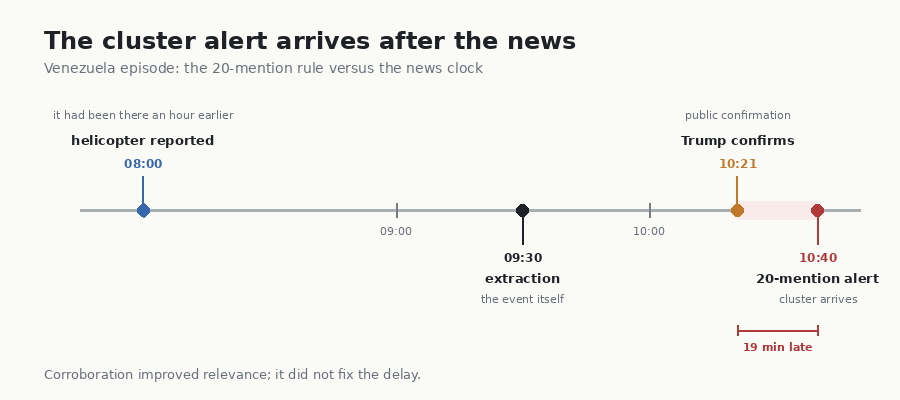
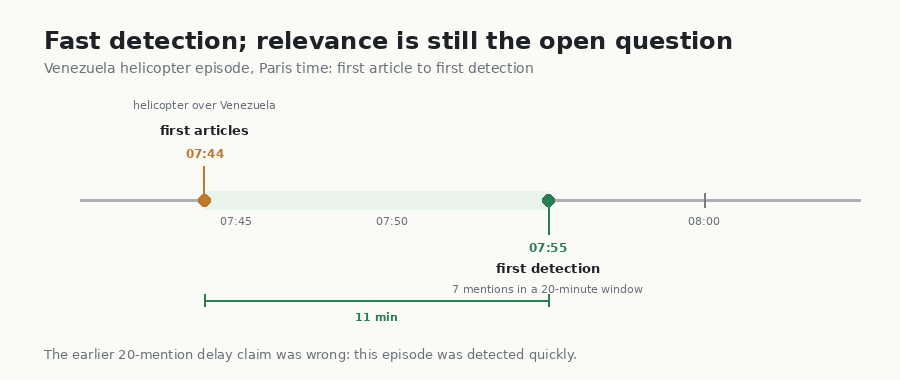
Correct Venezuela timeline in Bloomberg crypto theory
Articles appeared at 07:44 Paris and the first cluster detection was at 07:55, from 7 mentions in a 20-minute window. The earlier 20-mention delay account was wrong; detection was fast, so relevance and after-cost return remain the open questions.

diff --git a/scripts/make_illustrations.py b/scripts/make_illustrations.py
@@ -402,39 +402,35 @@ def blend(first, second, amount: float):
 
 
 def render_cluster_latency() -> Path:
-    width, height = 900, 400
+    width, height = 900, 380
     image, draw = canvas(
         width,
         height,
-        "The cluster alert arrives after the news",
-        "Venezuela episode: the 20-mention rule versus the news clock",
+        "Fast detection; relevance is still the open question",
+        "Venezuela helicopter episode, Paris time: first article to first detection",
     )
-    left, right, line_y = 80, 860, 210
-    day_start, day_end = 7 * 60 + 45, 10 * 60 + 50
+    left, right, line_y = 80, 860, 200
+    day_start, day_end = 7 * 60 + 40, 8 * 60 + 5
 
     def tx(minute: int) -> float:
         return left + (minute - day_start) / (day_end - day_start) * (right - left)
 
     draw.line([(left, line_y), (right, line_y)], fill=(170, 175, 180), width=3)
-    for minute in (8 * 60, 9 * 60, 10 * 60):
+    for minute in (7 * 60 + 45, 7 * 60 + 50, 8 * 60):
         x = tx(minute)
         draw.line([(x, line_y - 7), (x, line_y + 7)], fill=(120, 125, 132), width=2)
-        if minute != 8 * 60:
-            draw.text((x, line_y + 14), f"{minute // 60:02d}:00", fill=MUTED, font=font(11), anchor="ma")
+        draw.text((x, line_y + 14), f"{minute // 60:02d}:{minute % 60:02d}", fill=MUTED, font=font(11), anchor="ma")
 
-    # The gap between public confirmation and the alert is the point.
-    confirm_x, alert_x = tx(10 * 60 + 21), tx(10 * 60 + 40)
-    draw.rectangle([confirm_x, line_y - 9, alert_x, line_y + 9], fill=RED_FILL)
-    draw.line([(confirm_x, 330), (alert_x, 330)], fill=RED, width=2)
-    draw.line([(confirm_x, 325), (confirm_x, 335)], fill=RED, width=2)
-    draw.line([(alert_x, 325), (alert_x, 335)], fill=RED, width=2)
-    draw.text(((confirm_x + alert_x) / 2, 340), "19 min late", fill=RED, font=font(11, bold=True), anchor="ma")
+    article_x, detect_x = tx(7 * 60 + 44), tx(7 * 60 + 55)
+    draw.rectangle([article_x, line_y - 9, detect_x, line_y + 9], fill=GREEN_FILL)
+    draw.line([(article_x, 300), (detect_x, 300)], fill=GREEN, width=2)
+    draw.line([(article_x, 294), (article_x, 306)], fill=GREEN, width=2)
+    draw.line([(detect_x, 294), (detect_x, 306)], fill=GREEN, width=2)
+    draw.text(((article_x + detect_x) / 2, 310), "11 min", fill=GREEN, font=font(11, bold=True), anchor="ma")
 
     events = [
-        (8 * 60, "08:00", "helicopter reported", "it had been there an hour earlier", BLUE, True),
-        (9 * 60 + 30, "09:30", "extraction", "the event itself", INK, False),
-        (10 * 60 + 21, "10:21", "Trump confirms", "public confirmation", ORANGE, True),
-        (10 * 60 + 40, "10:40", "20-mention alert", "cluster arrives", RED, False),
+        (7 * 60 + 44, "07:44", "first articles", "helicopter over Venezuela", ORANGE, True),
+        (7 * 60 + 55, "07:55", "first detection", "7 mentions in a 20-minute window", GREEN, False),
     ]
     for minute, time_label, title, note, color, above in events:
         x = tx(minute)
@@ -450,7 +446,7 @@ def render_cluster_latency() -> Path:
             draw.text((x, line_y + 82), note, fill=MUTED, font=font(11), anchor="ma")
         draw.ellipse([x - 6, line_y - 6, x + 6, line_y + 6], fill=color)
 
-    footer(draw, width, height, "Corroboration improved relevance; it did not fix the delay.")
+    footer(draw, width, height, "The earlier 20-mention delay claim was wrong: this episode was detected quickly.")
     out = OUT / "cluster-latency.png"
     out.parent.mkdir(parents=True, exist_ok=True)
     image.save(out, format="PNG", optimize=True)

diff --git a/README.md b/README.md
@@ -239,13 +239,13 @@ The published sample is a small, synthetic demo, not the original live capture. 
 
 ### Field note
 
-A live log from the Venezuela episode shows the latency problem directly. A helicopter was reported over Venezuela at 08:00 Paris time (it had been there an hour earlier), and the extraction happened at 09:30. The alert arrived at 10:40, but Donald Trump had already confirmed the extraction at 10:21. The tool waits for 20 mentions before sending an alert, so the cluster arrived after confirmation. Corroboration improved relevance, but not timeliness.
+A live log from the Venezuela episode shows the timing was not the problem. Articles about the helicopter appeared at 07:44 Paris time. The first cluster detection came at 07:55, 11 minutes later, from 7 mentions inside a 20-minute window. The earlier note claiming a 20-mention alert arrived after public confirmation was wrong. The remaining question is relevance and after-cost return, not latency.
 
-<img src="assets/illustrations/cluster-latency.png" alt="Field-note timeline: a 20-mention cluster alert arrives after public confirmation" width="620">
+<img src="assets/illustrations/cluster-latency.png" alt="Field-note timeline: articles at 07:44 Paris and first cluster detection at 07:55, 11 minutes later" width="620">
 
 ### Verdict
 
-🟠 The cluster filter improves relevance but not risk-adjusted return after costs. The Venezuela log shows the timing failure: by the time 20 mentions accumulate, the confirmation can already be public.
+🟠 The cluster filter improves relevance, but the published sample is a synthetic demo rather than a labelled forward-return test. Detection was fast in the one live episode, so timing is not the objection; relevance and after-cost return remain open.
 
 
 ---
